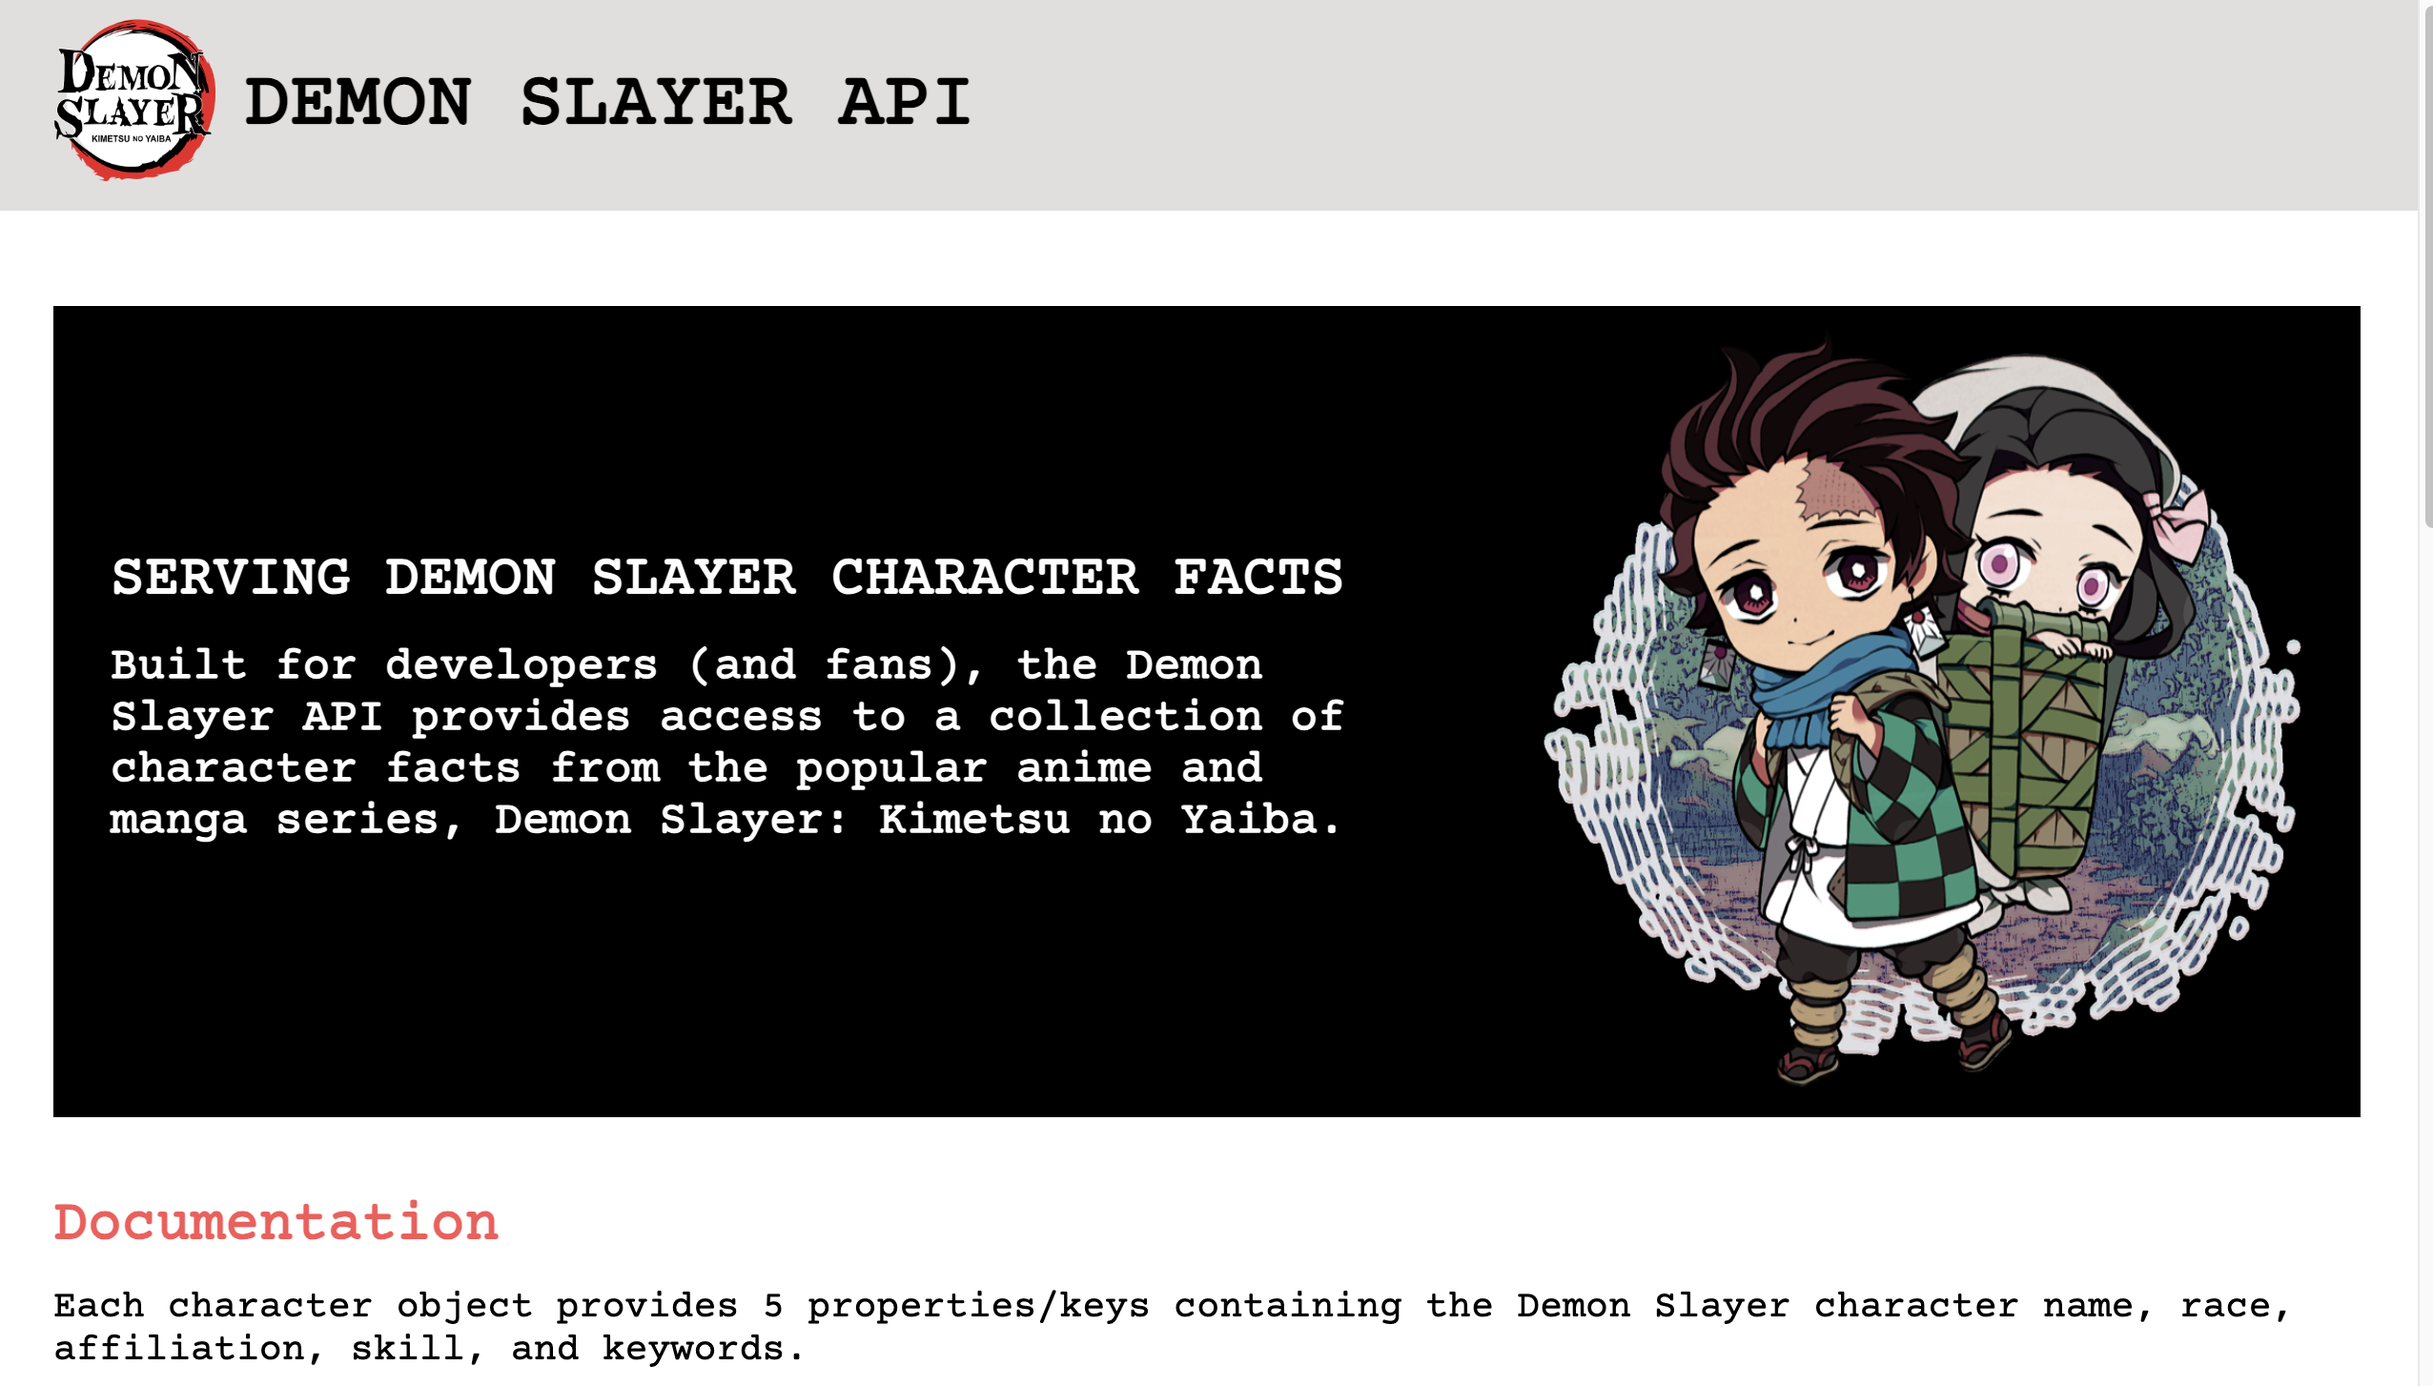
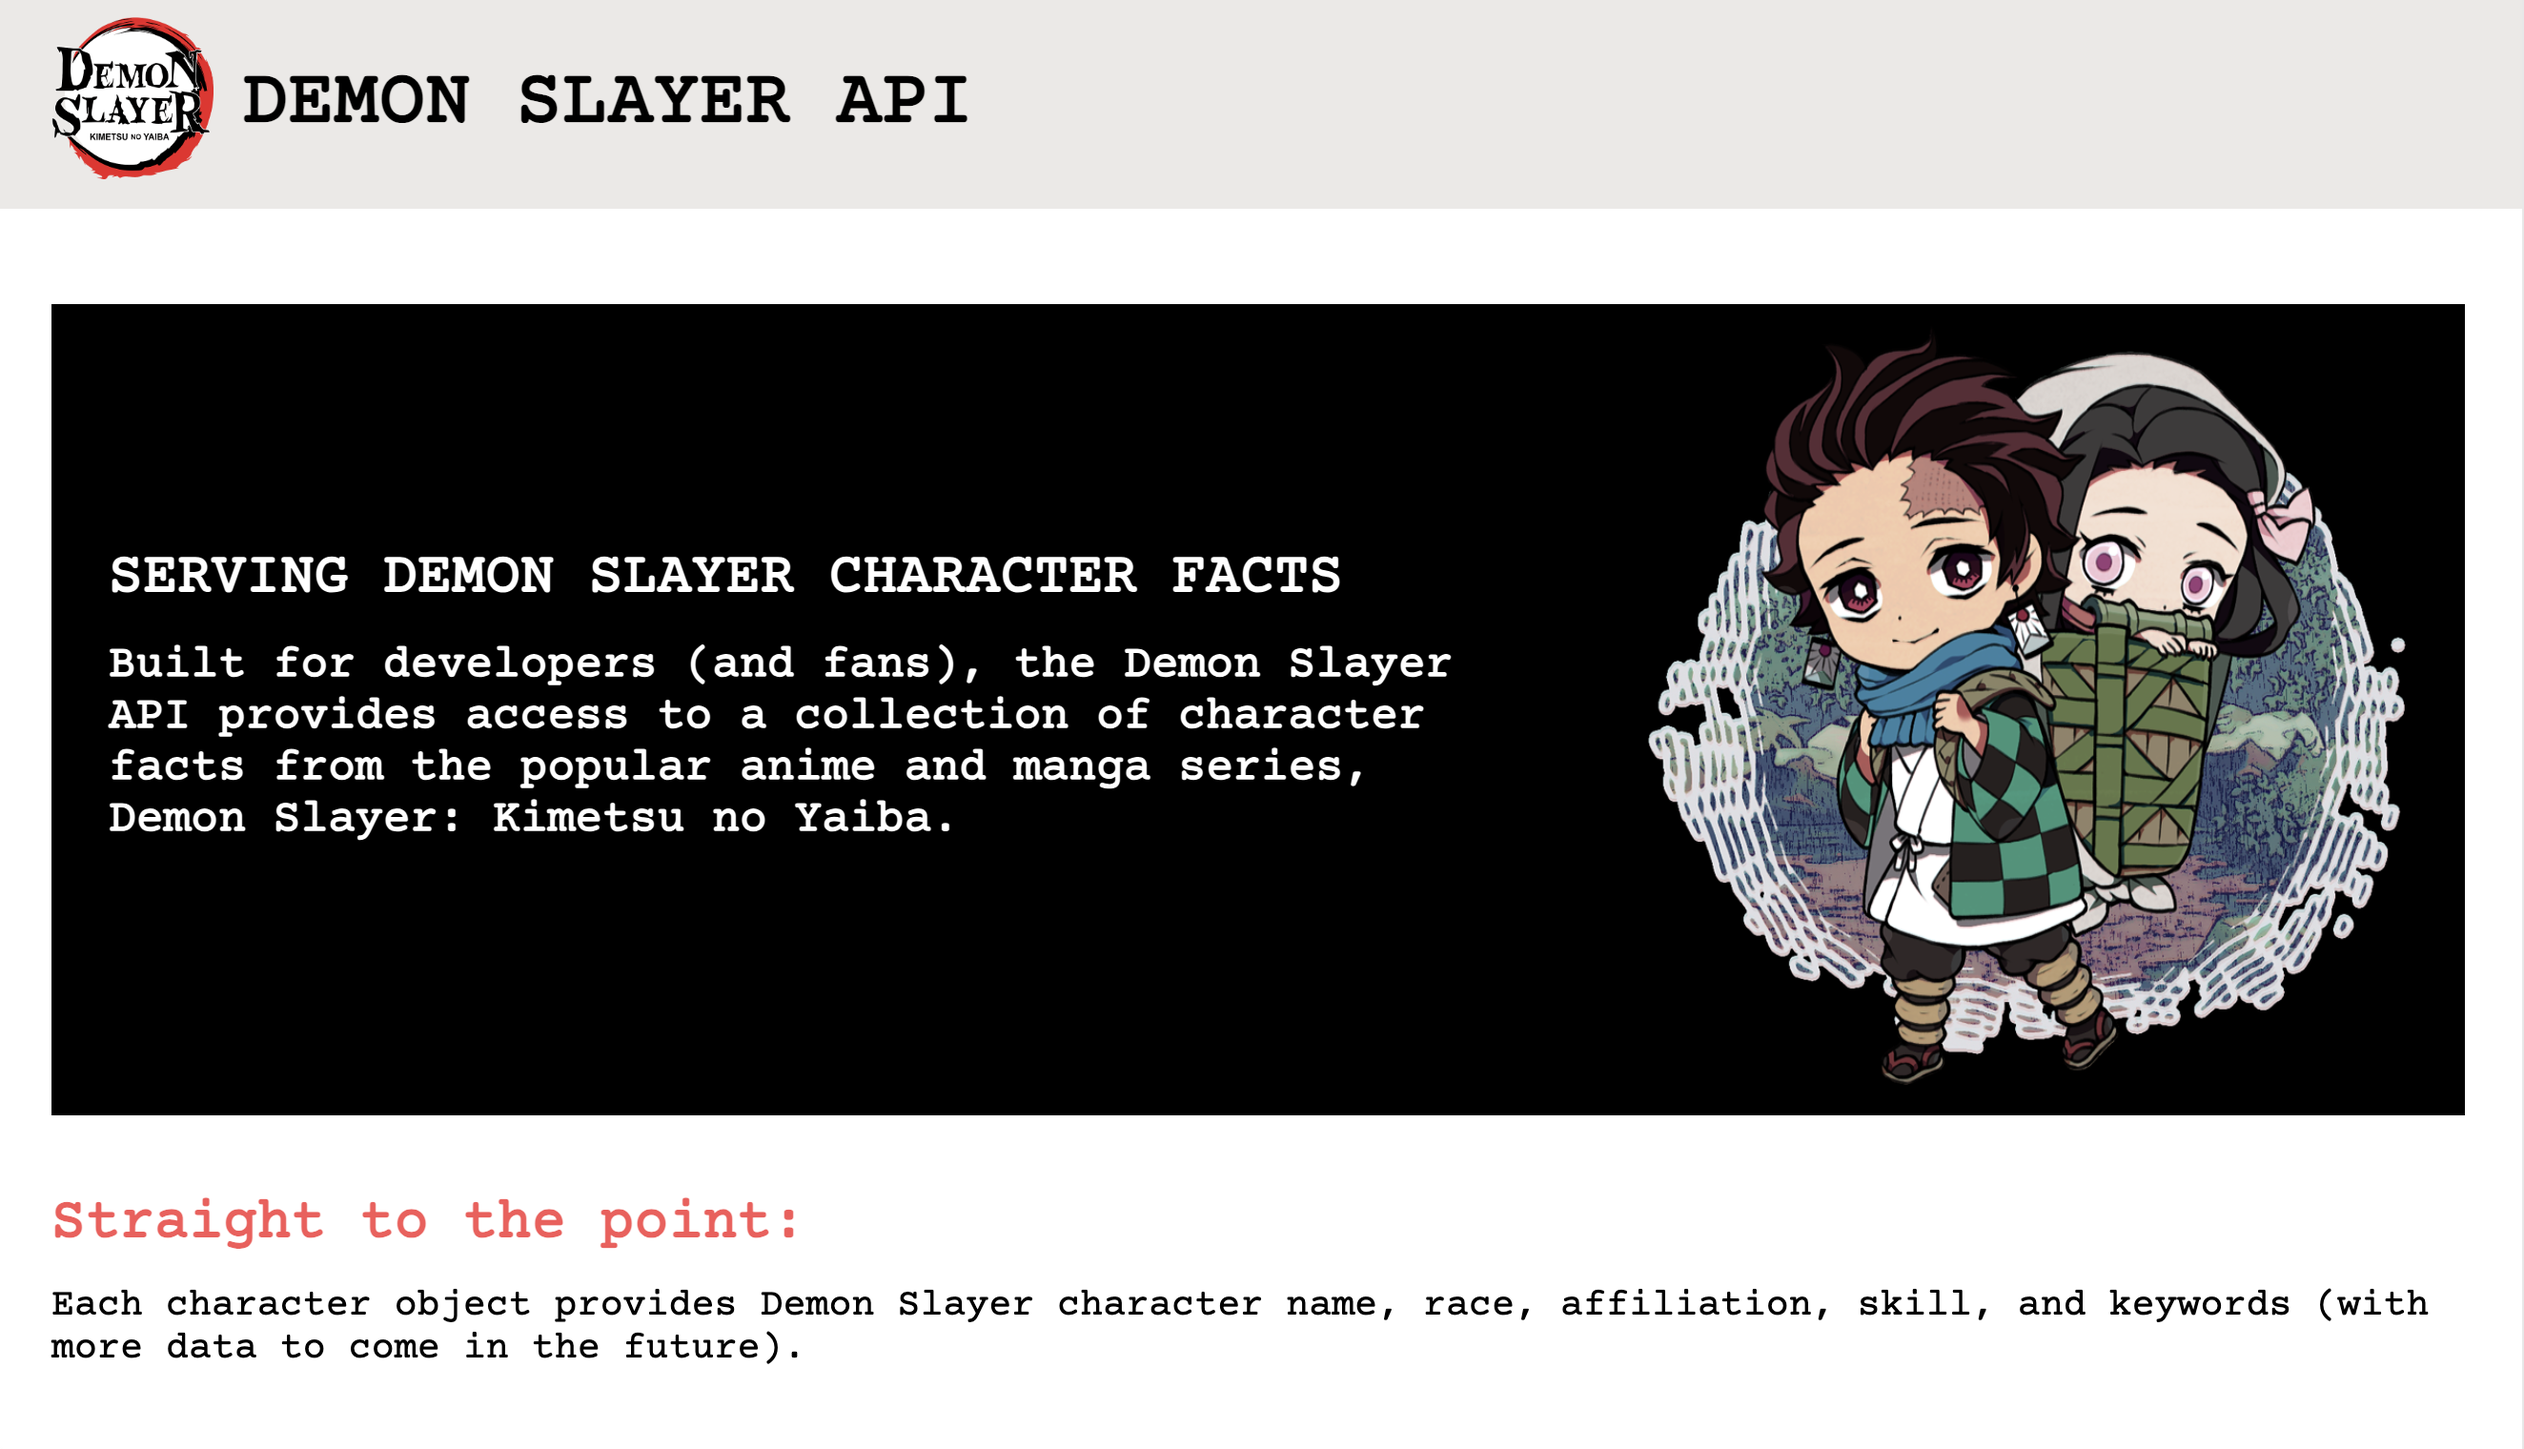
keyword route updated to name route and styling updates

Changed region(s): [[0.0, 0.0, 1.0, 0.9904], [0.031, 0.3714, 0.5882, 0.619]]

diff --git a/public/css/style.css b/public/css/style.css
@@ -11,7 +11,7 @@ body {
 /*nav - image - text logo */
 
 .navbar .container {
-    background-color: rgb(224, 223, 222);
+    background-color: #ebe9e7;
     display: flex;
     align-items: center;
     padding: 10px 30px;
@@ -94,13 +94,13 @@ main .container h2, h3 {
 }
 
 #documentation h3 {
-    font-size: 28px;
-    color: #fb5557;
+    font-size: 26px;
     padding-bottom: 10px;
+    text-decoration: underline;
 }
 
 #documentation h4 {
-    font-size: 26px;
+    font-size: 24px;
 }
 
 #api-endpoint-1, #api-endpoint-2 {
@@ -123,6 +123,7 @@ code {
 }
 
 #demo h3 {
+    margin-bottom: 20px;
     font-size: 28px;
     color: #fb5557;
 }
@@ -136,17 +137,29 @@ code {
 }
 
 input {
-    width: 175px;
-    height: 25px;
+    width: 250px;
+    height: 32px;
+    padding: 8px;
+    font-size: 16px;
     border: none;
-    background-color: #dad8d59c; 
+    border-radius: 2px;
+    background-color: #e6e6e69e; 
+}
+
+input::placeholder {
+    font-family: 'Courier Prime', monospace;
+    font-size: 14px;
 }
 
 button {
-    width: 50px;
-    height: 25px;
-    margin: -9px;
+    width: 65px;
+    height: 31px;
+    padding-top: 5px;
+    margin-left: -7px;
+    font-family: 'Courier Prime', monospace;
+    font-size: 14px;
     border: none;
+    border-radius: 2px;
     background-color: black;
     color: #fb5557;
 }
@@ -160,9 +173,8 @@ button {
 
 /* footer */
 
-
 footer {
-    background-color: #e0dfde;;
+    background-color: #ebe9e7;;
     color: black;
     height: 180px;
     text-align: center;
@@ -180,7 +192,10 @@ footer p {
 
 #socials {
     margin: 10px;
+    
 }
+
+
 
 
 

diff --git a/server.js b/server.js
@@ -16,12 +16,12 @@ app.get('/', (req, res) => {
     res.json(characters);
   });
   
-  app.get('/api/:keyword', (req, res) => {
-    const keyword = req.params.keyword.toLowerCase();
+  app.get('/api/:name', (req, res) => {
+    const name = req.params.name.toLowerCase();
   
     // Filter through characters.js & pull items that match the keyword
     const results = characters.filter(obj =>
-      obj.keywords.some(str => str.toLowerCase().includes(keyword))
+      obj.keywords.some(str => str.toLowerCase().includes(name))
     );
   
     if (results.length) {
